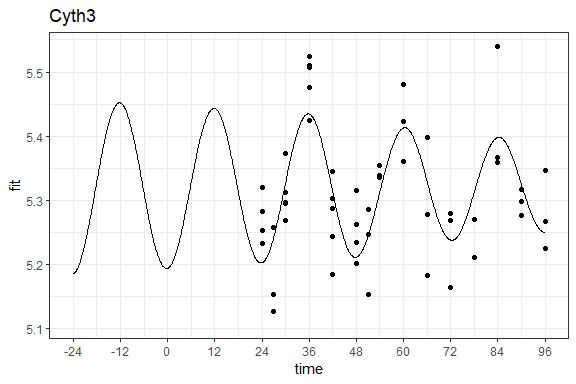
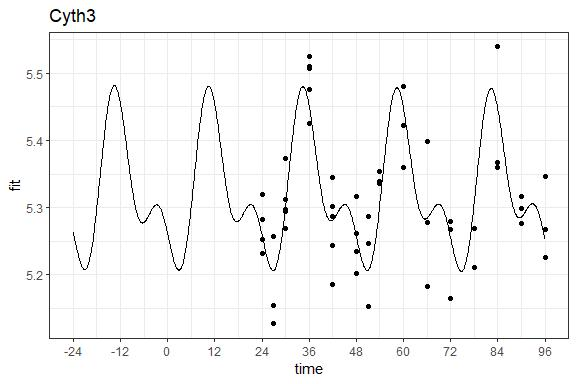
add Cyth3

diff --git a/README.md b/README.md
@@ -283,7 +283,7 @@ fits
     ##            omega  loggamma      Wake      Sleep      AmpSin  PhiSin     value
     ## nlminb 0.2173783 -2.181641 0.1155323 -0.2281949 0.006037812 3.73187 0.3719629
     ##        fevals gevals niter convcode kkt1 kkt2 xtime
-    ## nlminb     55    214    32        0 TRUE TRUE  0.38
+    ## nlminb     55    214    32        0 TRUE TRUE  0.37
 
 ## Visualize fit
 
@@ -448,6 +448,54 @@ gg
     ## Warning: Removed 9 rows containing missing values (geom_point).
 
 ![](README_files/figure-gfm/unnamed-chunk-23-1.jpeg)<!-- -->
+
+``` r
+model<-initDDHOmodel(swdmr,VarExp = "Cyth3")
+```
+
+    ## Warning in SWDMr:::MatchPoints(.Object): Not all points in Gexp were found in SWdist
+    ## - Point T216 not found
+    ## - Point T216 not found
+    ## - Point T216 not found
+    ## - Point T222 not found
+    ## - Point T222 not found
+    ## - Point T222 not found
+
+``` r
+MeanGeneExprInBaseline<-mean(RNAExpression$Cyth3[RNAExpression$Time<=48])
+model<-FixIntercept(model,MeanGeneExprInBaseline)
+model<-AddForce(model,"Wake")
+model<-AddForce(model,"Sleep")
+model<-AddSinF(model,FixPer = 24)
+model<-SetYinitMode(model,mode = "Intercept_0")
+model<-ReplicateDrivingForce(model,c(0,24.0),40)
+```
+
+    ## Warning in SWDMr:::MatchPoints(object): Not all points in Gexp were found in SWdist
+    ## - Point T216 not found
+    ## - Point T216 not found
+    ## - Point T216 not found
+    ## - Point T222 not found
+    ## - Point T222 not found
+    ## - Point T222 not found
+
+``` r
+objfun<-SWDMrGetEvalFun(model)
+params<-c(omega=2*pi/24,loggamma=-1,Wake=0,Sleep=0,AmpSin=0,PhiSin=pi)
+fits<-optimx(params,fn = objfun,method=c("nlminb"))
+out<-SWDMrFit(model,fits)
+gg<-ggplot(aes(x=time,y=fit),data=cbind.data.frame(time=out$time,fit=out$y1))
+gg<-gg+geom_line()
+gg <- gg + annotate("point",x=RNAExpression$Time,y=RNAExpression$Cyth3)
+gg<-gg +scale_x_continuous(breaks=seq(-24,96,by=12),limits = c(-24,96))+ theme_bw() + ggtitle("Cyth3")
+gg
+```
+
+    ## Warning: Removed 9600 row(s) containing missing values (geom_path).
+
+    ## Warning: Removed 9 rows containing missing values (geom_point).
+
+![](README_files/figure-gfm/unnamed-chunk-24-1.jpeg)<!-- -->
 
 # Fit a process-S dynamic on phenotype
 
@@ -638,7 +686,7 @@ gg<-gg +scale_x_continuous(breaks=seq(-24,96,by=12),limits = c(-24,96))+ theme_b
 gg
 ```
 
-![](README_files/figure-gfm/unnamed-chunk-36-1.jpeg)<!-- -->
+![](README_files/figure-gfm/unnamed-chunk-37-1.jpeg)<!-- -->
 
 ## Compute some statistics
 
@@ -680,7 +728,7 @@ plot(fitted,residuals);abline(h=mean(residuals))
 qqnorm(residuals);qqline(residuals)
 ```
 
-![](README_files/figure-gfm/unnamed-chunk-39-1.jpeg)<!-- -->
+![](README_files/figure-gfm/unnamed-chunk-40-1.jpeg)<!-- -->
 
 ``` r
 sessionInfo()
